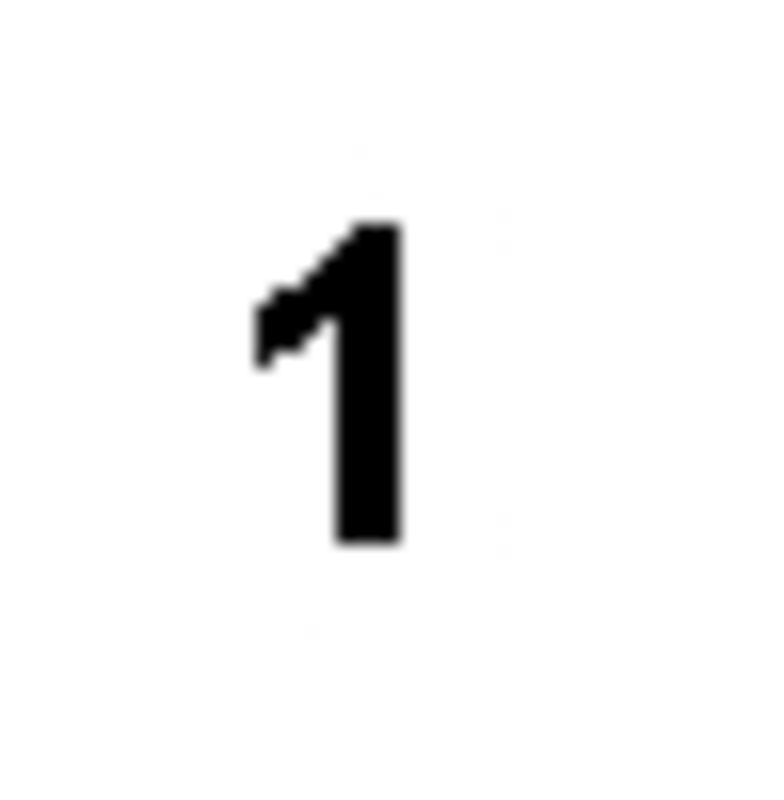
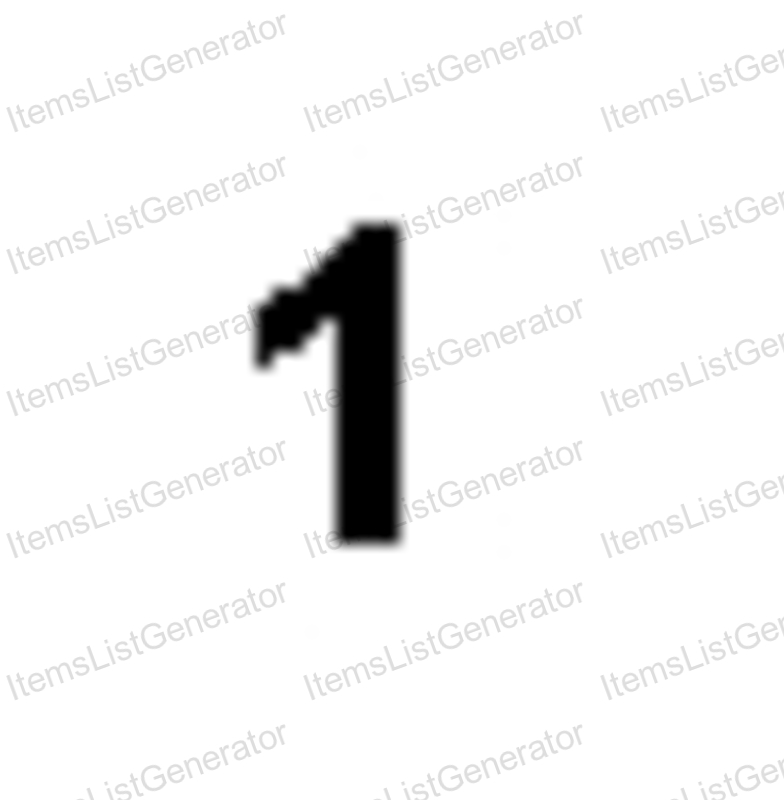
watermark

diff --git a/www-auto/s.css b/www-auto/s.css
@@ -105,7 +105,7 @@ table
  width: 100%;
  height: 25px;
  border: 0;
- padding: 4px;
+ padding: 0px;
  padding-left: 8px;
  background: rgba(0, 0, 0, 0.02);
 }

diff --git a/www-auto.py b/www-auto.py
@@ -15,6 +15,7 @@ WWW_DIR    = 'www-auto/'
 PRICE_TXT  = 'price'
 TITLE_TXT  = 'title'
 MISC_TXT   = 'misc'
+WM_label   = 'ItemsListGenerator'
 
 index      = open('index.htm').read()
 category   = open('category.htm').read()
@@ -59,8 +60,12 @@ def mglob(dir, *subs):
 re_info_row = re.compile('(.*?):\s*(.*)')
 re_sub_cats = re.compile('^!(.*)')
 
+WM = ' -alpha set '+\
+'( -pointsize 35 -fill grey87 label:"'+ WM_label +'" -rotate -20 -write mpr:tile +delete ) '+\
+'( +clone -compose multiply -tile mpr:tile -draw "color 0,0 reset" ) -composite '
+
 IM_small = '-resize x150 -normalize -sharpen 0x2 -define jpeg:extent=4KB "%s" "%s" '
-IM_large = '-resize x800 -normalize -unsharp 2x2 -define jpeg:extent=100KB "%s" "%s" '
+IM_large = '-resize x800 -normalize -unsharp 2x2 -define jpeg:extent=100KB "%s"' + WM + '"%s" '
 def IM_save(item_file, args = IM_small, img_pref = ''):
     img_file = replace_ext_safe(item_file, '.jpg')
     img_file_org = replace_ext(item_file, '.jpg')
